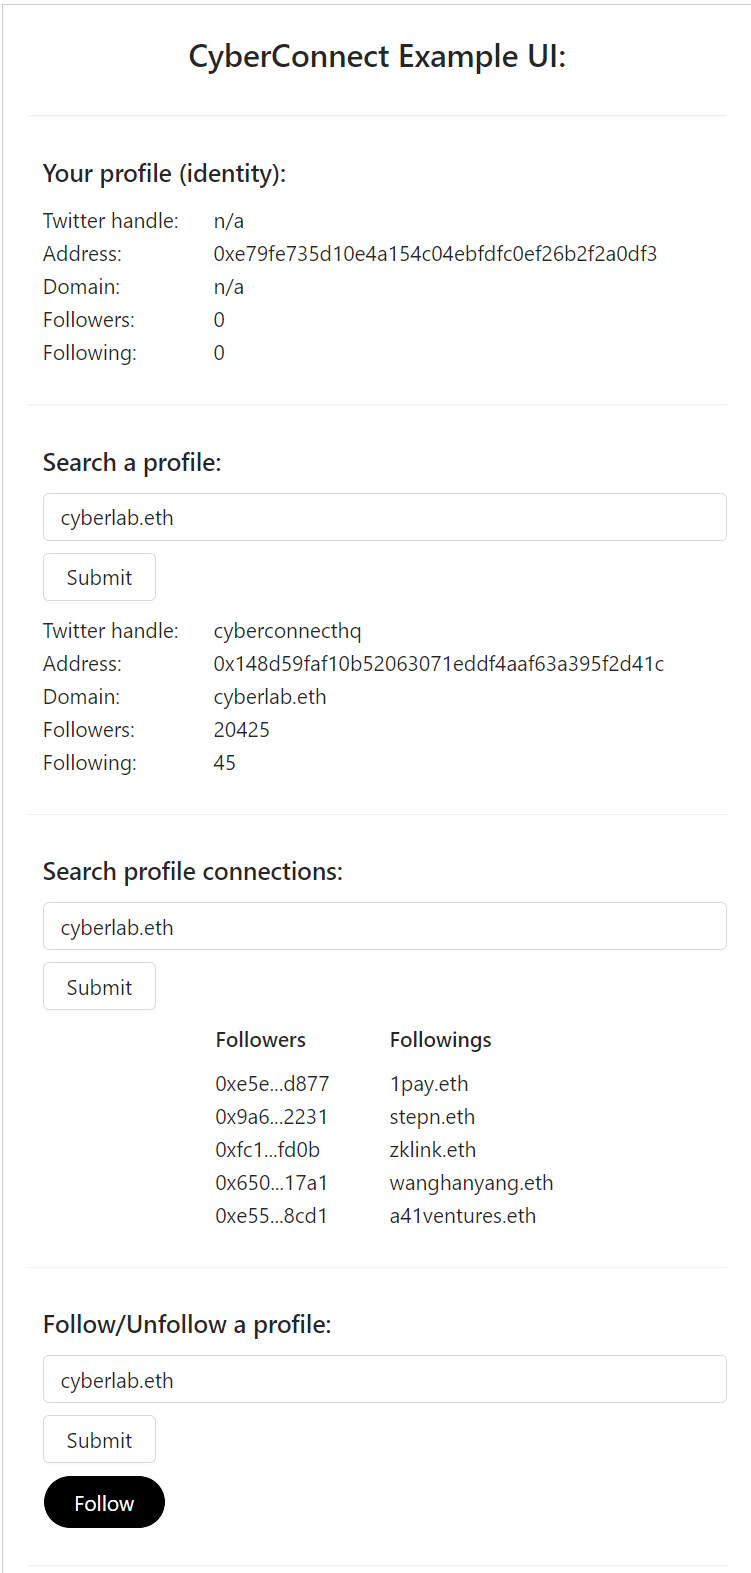
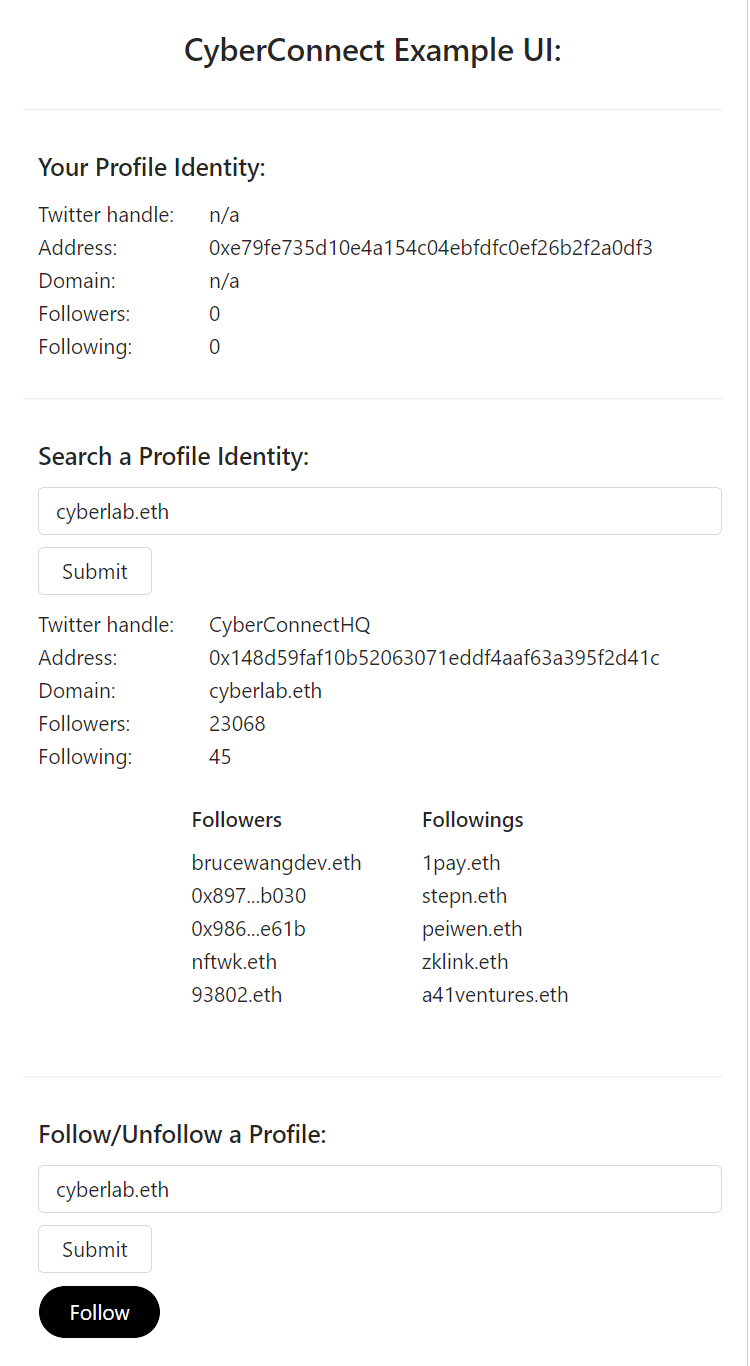
fix: refactor the code and changed readme

Changed region(s): [[0.0307, 0.0922, 0.8893, 0.9839], [0.5213, 0.5842, 0.7667, 0.7994], [0.2453, 0.0307, 0.7667, 0.0615]]

diff --git a/packages/react-app/src/views/ExampleUI.jsx b/packages/react-app/src/views/ExampleUI.jsx
@@ -5,7 +5,7 @@ import React, { useEffect, useState } from "react";
 import { Address, Balance, Events } from "../components";
 import CyberConnectFollowButton from "../components/CyberConnectFollowBtn";
 
-import { getIdentity, getConnections, getFollowStatus } from "../queries/cyberconnect";
+import { getIdentity, getFollowStatus } from "../queries/cyberconnect";
 
 export default function ExampleUI({
   purpose,
@@ -22,13 +22,13 @@ export default function ExampleUI({
   const [newPurpose, setNewPurpose] = useState("loading...");
   const demoAddr = "cyberlab.eth";
   const [identityInput, setIdentityInput] = useState(demoAddr);
-  const [connectionsInput, setConnectionsInput] = useState(demoAddr);
+
   const [followInput, setFollowInput] = useState(demoAddr);
   const [followAddr, setFollowAddr] = useState("");
 
   const [identity, setIdentity] = useState(null);
   const [searchedIdentity, setSearchedIdentity] = useState(null);
-  const [searchedConnections, setSearchedConnections] = useState(null);
+
   const [isFollowing, setIsFollowing] = useState(null);
 
   const fetchIdentity = async () => {
@@ -49,15 +49,6 @@ export default function ExampleUI({
     const res = await getIdentity({ address: identityInput });
     if (res) {
       setSearchedIdentity(res);
-    }
-  };
-
-  const searchConnectionsHandler = async () => {
-    if (!connectionsInput) return;
-
-    const res = await getConnections({ address: connectionsInput });
-    if (res) {
-      setSearchedConnections(res);
     }
   };
 
@@ -84,7 +75,7 @@ export default function ExampleUI({
           <h2>CyberConnect Example UI:</h2>
           <Divider />
           <div style={{ textAlign: "left", marginLeft: "10px" }}>
-            <h3>Your profile (identity):</h3>
+            <h3>Your Profile Identity:</h3>
             {identity && (
               <div>
                 <Row>
@@ -113,7 +104,7 @@ export default function ExampleUI({
         </div>
         <Divider />
         <div style={{ textAlign: "left", marginLeft: "10px" }}>
-          <h3>Search a profile:</h3>
+          <h3>Search a Profile Identity:</h3>
           <Input
             placeholder="Enter the address/ens you want to search.."
             onChange={e => setIdentityInput(e.target.value)}
@@ -144,27 +135,11 @@ export default function ExampleUI({
                 <Col span={6}>Following:</Col>
                 <Col span={18}>{searchedIdentity.followingCount}</Col>
               </Row>
-            </div>
-          )}
-        </div>
-        <Divider />
-        <div style={{ textAlign: "left", marginLeft: "10px" }}>
-          <h3>Search profile connections:</h3>
-          <Input
-            placeholder="Enter the address/ens you want to search.."
-            onChange={e => setConnectionsInput(e.target.value)}
-            value={connectionsInput}
-          />
-          <Button style={{ margin: "8px 0px" }} onClick={searchConnectionsHandler}>
-            Submit
-          </Button>
-          {searchedConnections && (
-            <div>
               <Row span={18} justify={"center"}>
-                <div style={{ paddingRight: "20px" }}>
+                <div style={{ padding: "20px" }}>
                   <h4>Followers</h4>
-                  {searchedConnections &&
-                    searchedConnections.followers?.list.map(user => {
+                  {searchedIdentity &&
+                    searchedIdentity.followers?.list.map(user => {
                       return (
                         <div key={user.address}>
                           <div>{user.domain || formatAddress(user.address)}</div>
@@ -172,10 +147,10 @@ export default function ExampleUI({
                       );
                     })}
                 </div>
-                <div style={{ paddingLeft: "20px" }}>
+                <div style={{ padding: "20px" }}>
                   <h4>Followings</h4>
-                  {searchedConnections &&
-                    searchedConnections.followings?.list.map(user => {
+                  {searchedIdentity &&
+                    searchedIdentity.followings?.list.map(user => {
                       return (
                         <div key={user.address}>
                           <div>{user.domain || formatAddress(user.address)}</div>
@@ -189,7 +164,7 @@ export default function ExampleUI({
         </div>
         <Divider />
         <div style={{ textAlign: "left", marginLeft: "10px" }}>
-          <h3>Follow/Unfollow a profile:</h3>
+          <h3>Follow/Unfollow a Profile:</h3>
           <Input
             placeholder="Enter the address/ens you want to follow/unfollow.."
             onChange={e => setFollowInput(e.target.value)}
@@ -207,14 +182,13 @@ export default function ExampleUI({
                 onSuccess={() => {
                   fetchIdentity();
                   searchIdentityHandler();
-                  searchConnectionsHandler();
+
                   searchFollowHandler();
                 }}
               />
             )}
           </div>
         </div>
-        <Divider />
         <Divider />
         <h2>Scaffold-eth Example UI:</h2>
         <h4>purpose: {purpose}</h4>

diff --git a/packages/react-app/src/queries/cyberconnect.js b/packages/react-app/src/queries/cyberconnect.js
@@ -8,7 +8,7 @@ const client = new GraphQLClient(CYBERCONNECT_ENDPOINT);
 
 // You can add/remove fields in query
 export const GET_IDENTITY = gql`
-  query ($address: String!) {
+  query ($address: String!, $first: Int) {
     identity(address: $address) {
       address
       domain
@@ -18,13 +18,6 @@ export const GET_IDENTITY = gql`
       twitter {
         handle
       }
-    }
-  }
-`;
-
-export const GET_FOLLOWLIST = gql`
-  query ($address: String!, $first: Int) {
-    identity(address: $address) {
       followings(first: $first) {
         list {
           address
@@ -57,35 +50,8 @@ export async function getIdentity({ address }) {
 
   const res = await client.request(GET_IDENTITY, {
     address: address,
-  });
-
-  console.log("getIdentity: ----------", res);
-
-  if (res && res.identity) {
-    console.log("🧬🧬-CyberConnect-identity-start-🧬🧬");
-    console.log(res.identity);
-    console.log("🧬🧬-CyberConnect-identity---end-🧬🧬");
-  }
-
-  return res?.identity;
-}
-
-// Get Address Profile Connections
-export async function getConnections({ address }) {
-  if (!address) return;
-
-  const res = await client.request(GET_FOLLOWLIST, {
-    address: address,
     first: 5,
   });
-
-  console.log("GetConnections: ----------", res);
-
-  if (res && res.identity) {
-    console.log("🧬🧬-CyberConnect-connections-start-🧬🧬");
-    console.log(res.identity);
-    console.log("🧬🧬-CyberConnect-connections---end-🧬🧬");
-  }
 
   return res?.identity;
 }
@@ -99,14 +65,6 @@ export async function getFollowStatus({ fromAddr, toAddr }) {
     fromAddr: fromAddr,
     toAddrList: [toAddr],
   });
-
-  console.log("getFollowStatus:-----------", res);
-
-  if (res && res.connections[0]) {
-    console.log("🧬🧬-CyberConnect-status-start-🧬🧬");
-    console.log(res.connections[0]?.followStatus?.isFollowing);
-    console.log("🧬🧬-CyberConnect-status---end-🧬🧬");
-  }
 
   return res?.connections[0]?.followStatus?.isFollowing;
 }

diff --git a/README.md b/README.md
@@ -1,6 +1,7 @@
 # 🏗 Scaffold-ETH CyberConnect Starter Kit
 
 > everything you need to build with [CyberConnect](https://cyberconnect.me/) on Etherum! 🚀
+
 > 🧪 Quickly experiment with **CyberConnect API** using a frontend that adapts to your decentrialized identity:
 
 <!-- ![image](/packages/react-app/public/scaffold-eth-cyberconnect-starter-kit.png) -->
